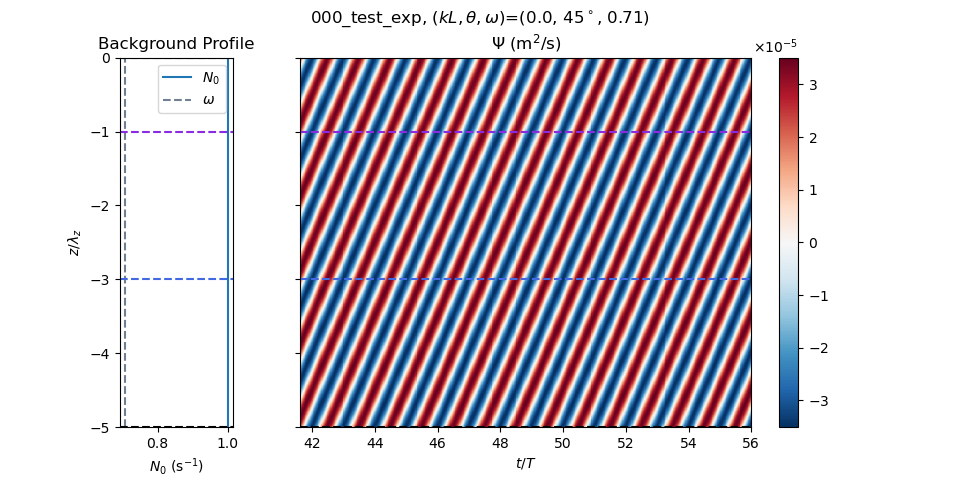
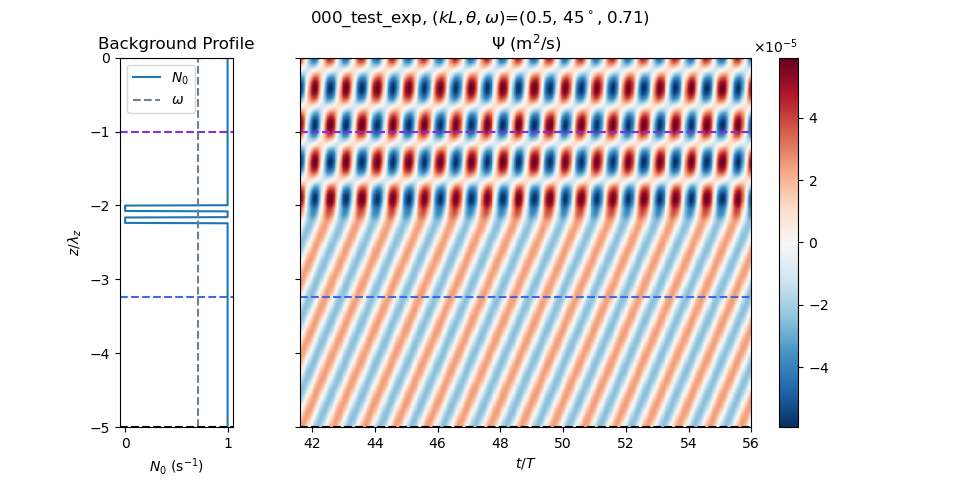
Vertical group speed line is working

diff --git a/_code_files/helper_functions.py b/_code_files/helper_functions.py
@@ -398,8 +398,12 @@ def add_cg_lines(ax, t, T, c_gz):
     c_gz       vertical group speed
     """
     if c_gz != None:
-        print("c_gz = ",c_gz)
-        ax.plot(t, c_gz*t*T, color=my_clrs['F_sp'], label='Vertical group speed')
+        # Calculate the linear vertical propagation from the group speed
+        #   Multiplying by T to put time in terms of t/T
+        #   Adding 1.5 to align with center of forcing window
+        c_gz_prop = c_gz*T*t + 1.5
+        # Plot line of propagation
+        ax.plot(t, c_gz_prop, color=my_clrs['w'], label='Vertical group speed')
 
 def set_plot_bounds(ax, plot_full_x, plot_full_y, z_array=None, z0_dis=None, zf_dis=None, t_array=None, T=None, T_cutoff=None):
     """

diff --git a/_code_files/params.py b/_code_files/params.py
@@ -1,2 +1,2 @@
-kL = 0.0
+kL = 0.5
 theta = 0.7853981633974483
